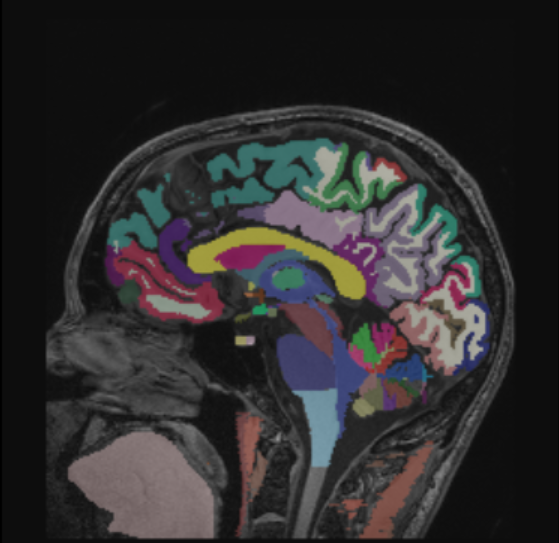
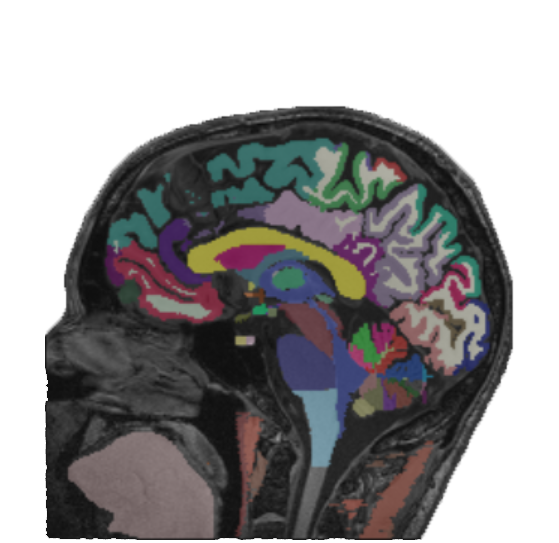
Added transparency for reference images
Made marker size a little larger

Reference image now rotated to fit plane

diff --git a/+processFNIRS2/+Data/+Plot/InterpolateValues3D.m b/+processFNIRS2/+Data/+Plot/InterpolateValues3D.m
@@ -271,15 +271,15 @@ cMdl=cerebro_mdl;
 
 
 
-tx2x=@(x) x;%/50*1.73;  %L/R scaling
-ty2y=@(y) y;%/140*4.76+0.5; %rostral/caudal scaling
-tz2z=@(z) z;%/80*2.5+2.3;  %up down scaling
+tx2x=@(x) x;%/49*1.73;  %L/R scaling
+ty2y=@(y) y;%/143*4.76+0.5; %rostral/caudal scaling
+tz2z=@(z) z;%/79*2.5+2.3;  %up down scaling
 
 brainResizeFactor=1.2;
 
 x2tx=@(x) x*49/1.73/brainResizeFactor;  %L/R scaling
-y2ty=@(y) (y-0.57)*143.5/4.76/brainResizeFactor; %rostral/caudal scaling
-z2tz=@(z) (z-2.32)*79/2.5/brainResizeFactor;  %up down scaling
+y2ty=@(y) (y-0.57)*143.5/4.35/brainResizeFactor; %rostral/caudal scaling
+z2tz=@(z) (z-2.32)*79/2.4/brainResizeFactor;  %up down scaling
 
 
 reorderIdx=[3,1,2];
@@ -395,13 +395,15 @@ else
     h=patch('vertices', mdl.v, 'faces', mdl.f,'FaceVertexCData',Cs,'FaceColor','interp','AmbientStrength',0.6, 'LineStyle', 'None','FaceAlpha', p.Results.brainAlpha);
 end
 
+mrkScaleFactor=22;
+
 if(showChannels)
     if(numColors ~= 2)
         if(~isempty(optColor) && (isnumeric(optColor) && ~any(isnan(optColor)) || ~ismissing(optColor)))
-            h = scatter3(OptPosX, OptPosY, OptPosZ,20*p.Results.labelfontsize,'filled',optColor);
+            h = scatter3(OptPosX, OptPosY, OptPosZ,20*p.Results.labelfontsize,'filled',optColor,'MarkerEdgeColor' ,'k');
         end
     end
-    text(OptPosX, OptPosY, OptPosZ, string(1:length(probeInfo.OptPos3DZ)), 'HorizontalAlignment', 'center', "FontSize", p.Results.labelfontsize, 'color', p.Results.labelfontcolor);
+    text(OptPosX, OptPosY, OptPosZ, string(1:length(probeInfo.OptPos3DZ)), 'HorizontalAlignment', 'center','VerticalAlignment', 'middle', "FontSize", p.Results.labelfontsize, 'color', p.Results.labelfontcolor);
 end
 
 if(plotFNIRS_SD&&isfield(probeInfo,'SrcPos3DX'))
@@ -411,15 +413,15 @@ if(plotFNIRS_SD&&isfield(probeInfo,'SrcPos3DX'))
     srcPos = [probeInfo.TableSD.Pos3D_x(srcIdx), probeInfo.TableSD.Pos3D_y(srcIdx), probeInfo.TableSD.Pos3D_z(srcIdx)];
     
     if(~isempty(srcColor) && (isnumeric(srcColor) && ~any(isnan(srcColor)) || ~ismissing(srcColor)))
-        h = scatter3(srcPos(:,1),srcPos(:,2),srcPos(:,3),20*p.Results.labelfontsize,'filled',srcColor);
+        h = scatter3(srcPos(:,1),srcPos(:,2),srcPos(:,3),mrkScaleFactor*p.Results.labelfontsize,'filled',srcColor);
     end
-    text(srcPos(:,1), srcPos(:,2), srcPos(:,3), probeInfo.TableSD.Label(srcIdx), 'HorizontalAlignment', 'center', "FontSize", p.Results.labelfontsize, 'color', p.Results.labelfontcolor);
+    text(srcPos(:,1), srcPos(:,2), srcPos(:,3), probeInfo.TableSD.Label(srcIdx), 'HorizontalAlignment', 'center','VerticalAlignment', 'middle', "FontSize", p.Results.labelfontsize, 'color', p.Results.labelfontcolor);
     hold on
     
     detPos = [probeInfo.TableSD.Pos3D_x(detIdx), probeInfo.TableSD.Pos3D_y(detIdx), probeInfo.TableSD.Pos3D_z(detIdx)];
    
     if(~isempty(detColor) && (isnumeric(detColor) && ~any(isnan(detColor)) || ~ismissing(detColor)))
-        h = scatter3(detPos(:,1), detPos(:,2), detPos(:,3), 20*p.Results.labelfontsize, 'filled', detColor);
+        h = scatter3(detPos(:,1), detPos(:,2), detPos(:,3), mrkScaleFactor*p.Results.labelfontsize, 'filled', detColor);
     end
     text(detPos(:,1), detPos(:,2), detPos(:,3), probeInfo.TableSD.Label(detIdx), 'HorizontalAlignment', 'center','VerticalAlignment', 'middle', "FontSize", p.Results.labelfontsize, 'color', p.Results.labelfontcolor);
 end
@@ -430,13 +432,13 @@ for i=1:size(c1020,1)
     %text(cerebro1020(i,1),cerebro1020(i,2),cerebro1020(i,3),cerebro1020_labels{i})
     if(~isnan(c1020.BA(i)))
         if(numColors == 4 || numColors == 1)
-            h = scatter3(c1020.tx(i),c1020.ty(i),c1020.tz(i),30*p.Results.labelfontsize, 'filled', color1020);
+            h = scatter3(c1020.tx(i),c1020.ty(i),c1020.tz(i),mrkScaleFactor*1.5*p.Results.labelfontsize, 'filled', color1020);
         else
-            h = scatter3(c1020.tx(i),c1020.ty(i),c1020.tz(i),30*p.Results.labelfontsize, 'filled');
+            h = scatter3(c1020.tx(i),c1020.ty(i),c1020.tz(i),mrkScaleFactor*1.5*p.Results.labelfontsize, 'filled');
         end
         hold on
         
-        text(c1020.tx(i),c1020.ty(i),c1020.tz(i),c1020.Electrode(i),'HorizontalAlignment','center', "FontSize", p.Results.labelfontsize, 'color', p.Results.labelfontcolor)
+        text(c1020.tx(i),c1020.ty(i),c1020.tz(i),c1020.Electrode(i),'HorizontalAlignment', 'center','VerticalAlignment', 'middle', "FontSize", p.Results.labelfontsize, 'color', p.Results.labelfontcolor)
         %text(x2tx(c1020.x(i)),y2ty(c1020.y(i)),z2tz(c1020.z(i)),c1020.Electrode(i),'HorizontalAlignment','center')
         
     end
@@ -450,7 +452,7 @@ zlabel('z (U/D)');
 
 switch(p.Results.initCamPosition)
     case 'auto'
-        campos(OptPos3D_mean*35);  %Front facing
+        campos(OptPos3D_mean/norm(OptPos3D_mean)*1500);   %Front facing
     case 'front'
         campos([0,1000,0]);
     case 'back'
@@ -462,7 +464,7 @@ switch(p.Results.initCamPosition)
     case 'right'
         campos([1000,0,0]);
     otherwise
-        campos(OptPos3D_mean*25);  %Front facing
+        campos(OptPos3D_mean/norm(OptPos3D_mean)*1500);  %Front facing
 end
 %campos(OptPos3D_mean*25);  %Front facing
 camtarget([0,-20,0]);
@@ -531,66 +533,97 @@ if(p.Results.showReference)
     
     path4debug=sprintf('%s/../../../',path4debug);
     
-    img = imread(sprintf('%s%s',path4debug,'sideprofile_mid.png'));     % Load a sample image
+    [img,map,alpha] = imread(sprintf('%s%s',path4debug,'sideprofile_mid.png'));     % Load a sample image
     
     %https://www.openanatomy.org/atlases/nac/brain-2017-01/viewer/#!/view/33316a96-32f2-47f4-b5e0-a6225be09803/state/9dc9a3eb-7805-4b2b-943f-0b6e63ba488f
 
     imgXY=size(img);
     imgRes=1/5.25;
+    
+    rotx = @(t) [1 0 0; 0 cos(t) -sin(t) ; 0 sin(t) cos(t)] ;
+    roty = @(t) [cos(t) 0 sin(t) ; 0 1 0 ; -sin(t) 0  cos(t)] ;
+    rotz = @(t) [cos(t) -sin(t) 0 ; sin(t) cos(t) 0 ; 0 0 1] ;
+    
 
     xMid=0;
     yMid=-10;
-    zMid=0;
+    zMid=5;
+    
+    rotX=rotx(10*pi/180);
 
+    
+    imgCoord1=[0,imgXY(1)*imgRes,imgXY(2)*imgRes]*rotX;
+    imgCoord2=[0,-imgXY(1)*imgRes,imgXY(2)*imgRes]*rotX;
+    imgCoord3=[0,imgXY(1)*imgRes,-imgXY(2)*imgRes]*rotX;
+    imgCoord4=[0,-imgXY(1)*imgRes,-imgXY(2)*imgRes]*rotX;
 
-
-    xImage = [xMid xMid; xMid xMid];       % The x data for the image corners
-    yImage = [yMid+imgXY(1)*imgRes yMid-imgXY(1)*imgRes; yMid+imgXY(1)*imgRes yMid-imgXY(1)*imgRes];             % The y data for the image corners
-    zImage = [zMid+imgXY(2)*imgRes zMid+imgXY(2)*imgRes; zMid-imgXY(2)*imgRes zMid-imgXY(2)*imgRes];   % The z data for the image corners
+    xImage = [imgCoord1(1)+xMid imgCoord2(1)+xMid; imgCoord3(1)+xMid imgCoord4(1)+xMid];       % The x data for the image corners
+    yImage = [imgCoord1(2)+yMid imgCoord2(2)+yMid; imgCoord3(2)+yMid imgCoord4(2)+yMid];            % The y data for the image corners
+    zImage = [imgCoord1(3)+zMid imgCoord2(3)+zMid; imgCoord3(3)+zMid imgCoord4(3)+zMid];   % The z data for the image corners
+    
+    
+    
+    
     hold on
     surf(xImage,yImage,zImage,...    % Plot the surface
          'CData',img,...
-         'FaceColor','texturemap');
+        'FaceColor','texturemap','FaceLighting','none','AlphaData',alpha,'FaceAlpha','texture');
     hold off
 
-    img = imread(sprintf('%s%s',path4debug,'rcSlice.png'));     % Load a sample image
+    [img,map,alpha] = imread(sprintf('%s%s',path4debug,'rcSlice.png'));     % Load a sample image
 
 
     imgXY=size(img);
 
     xMid=0;
     yMid=-7;
-    zMid=-3;
+    zMid=2;
 
 
+    rotX=rotx(10*pi/180);
 
-    xImage = [xMid+imgXY(1)*imgRes xMid-imgXY(1)*imgRes; xMid+imgXY(1)*imgRes xMid-imgXY(1)*imgRes];   % The x data for the image corners
-    yImage = [yMid yMid; yMid yMid];             % The y data for the image corners
-    zImage = [zMid+imgXY(2)*imgRes zMid+imgXY(2)*imgRes; zMid-imgXY(2)*imgRes zMid-imgXY(2)*imgRes];   % The z data for the image corners
+    
+    imgCoord1=[imgXY(1)*imgRes,0,imgXY(2)*imgRes]*rotX;
+    imgCoord2=[-imgXY(1)*imgRes,0,imgXY(2)*imgRes]*rotX;
+    imgCoord3=[imgXY(1)*imgRes,0,-imgXY(2)*imgRes]*rotX;
+    imgCoord4=[-imgXY(1)*imgRes,0,-imgXY(2)*imgRes]*rotX;
+
+    xImage = [imgCoord1(1)+xMid imgCoord2(1)+xMid; imgCoord3(1)+xMid imgCoord4(1)+xMid];       % The x data for the image corners
+    yImage = [imgCoord1(2)+yMid imgCoord2(2)+yMid; imgCoord3(2)+yMid imgCoord4(2)+yMid];            % The y data for the image corners
+    zImage = [imgCoord1(3)+zMid imgCoord2(3)+zMid; imgCoord3(3)+zMid imgCoord4(3)+zMid];   % The z data for the image corners
+
+  
     hold on
     surf(xImage,yImage,zImage,...    % Plot the surface
          'CData',img,...
-         'FaceColor','texturemap');
+         'FaceColor','texturemap','FaceLighting','none','AlphaData',alpha,'FaceAlpha','texture');
     hold off
 
 
 
-    img = imread(sprintf('%s%s',path4debug,'topprofile.png'));     % Load a sample image
+    [img,map,alpha]  = imread(sprintf('%s%s',path4debug,'topprofile.png'));     % Load a sample image
 
 
     imgXY=size(img);
 
-    xMid=0;
-    yMid=-8;
-    zMid=-25;
+    xMid=1;
+    yMid=-14;
+    zMid=-18;
+    
+    imgCoord1=[imgXY(1)*imgRes,imgXY(2)*imgRes,0]*rotX;
+    imgCoord2=[-imgXY(1)*imgRes,imgXY(2)*imgRes,0]*rotX;
+    imgCoord3=[imgXY(1)*imgRes,-imgXY(2)*imgRes,0]*rotX;
+    imgCoord4=[-imgXY(1)*imgRes,-imgXY(2)*imgRes,0]*rotX;
+    
+   xImage = [imgCoord1(1)+xMid imgCoord2(1)+xMid; imgCoord3(1)+xMid imgCoord4(1)+xMid];       % The x data for the image corners
+    yImage = [imgCoord1(2)+yMid imgCoord2(2)+yMid; imgCoord3(2)+yMid imgCoord4(2)+yMid];            % The y data for the image corners
+    zImage = [imgCoord1(3)+zMid imgCoord2(3)+zMid; imgCoord3(3)+zMid imgCoord4(3)+zMid];   % The z data for the image corners
 
-    xImage = [xMid+imgXY(1)*imgRes xMid-imgXY(1)*imgRes; xMid+imgXY(1)*imgRes xMid-imgXY(1)*imgRes];   % The x data for the image corners
-    yImage = [yMid+imgXY(2)*imgRes yMid+imgXY(2)*imgRes; yMid-imgXY(2)*imgRes yMid-imgXY(2)*imgRes];             % The y data for the image corners
-    zImage = [zMid zMid; zMid zMid];   % The z data for the image corners
+  
     hold on
     surf(xImage,yImage,zImage,...    % Plot the surface
          'CData',img,...
-         'FaceColor','texturemap');
+         'FaceColor','texturemap','FaceLighting','none','AlphaData',alpha,'FaceAlpha','texture');
     hold off
 
 end